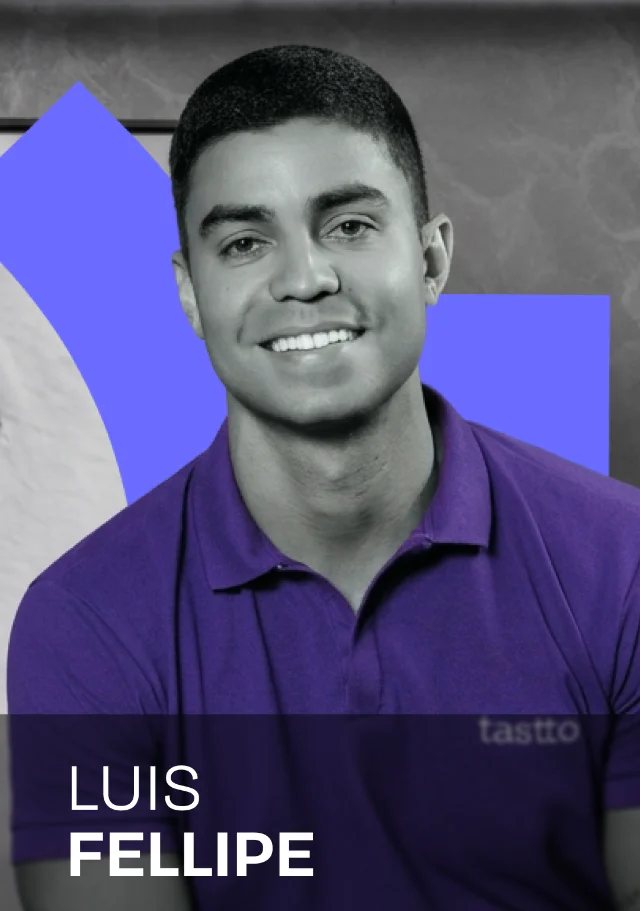
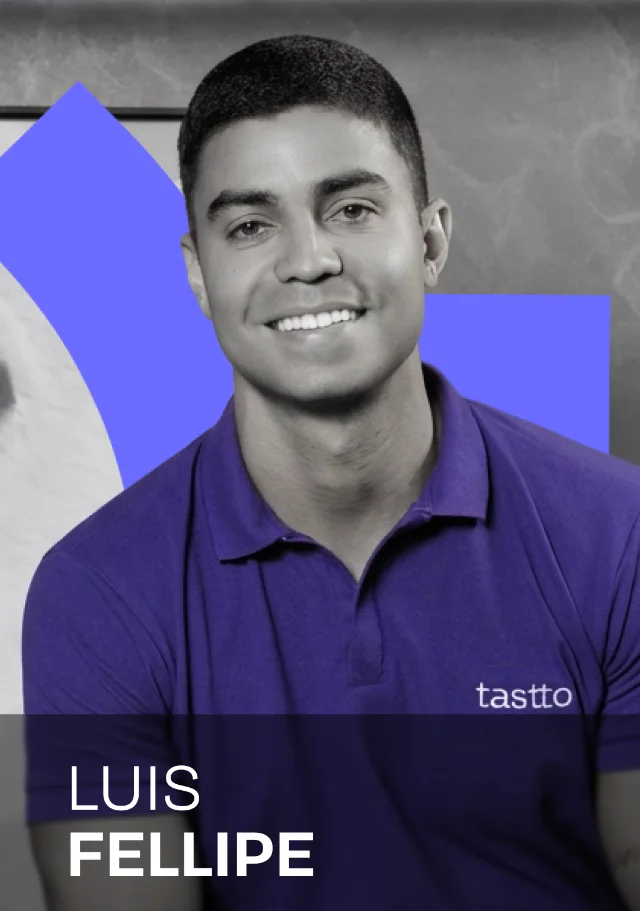
Atualiza site: nova foto do Luis Fellipe na equipe

diff --git a/index.html b/index.html
@@ -10,7 +10,7 @@
 <link rel="preconnect" href="https://fonts.googleapis.com">
 <link rel="preconnect" href="https://fonts.gstatic.com" crossorigin>
 <link href="https://fonts.googleapis.com/css2?family=Bricolage+Grotesque:opsz,wght@12..96,300;12..96,600&family=DM+Sans:wght@400;500&family=Host+Grotesk:wght@400;500&family=Inter:wght@400;500;600&family=Raleway:wght@700&family=Rethink+Sans:wght@500&display=swap" rel="stylesheet">
-<link rel="stylesheet" href="styles.css?v=202610261725">
+<link rel="stylesheet" href="styles.css?v=202610271014">
 </head>
 <body>
 
@@ -281,7 +281,7 @@
     </div>
     <ul class="equipe-trilho">
         <li class="equipe-card"><img src="assets/equipe-thiago-barretto.webp" alt="Thiago Barretto, da equipe Tastto" loading="lazy"><span class="equipe-cargo">Diretor</span></li>
-        <li class="equipe-card"><img src="assets/equipe-luis-fellipe.webp" alt="Luis Fellipe, da equipe Tastto" loading="lazy"><span class="equipe-cargo">Analista</span></li>
+        <li class="equipe-card"><img src="assets/equipe-luis-fellipe.webp?v=2" alt="Luis Fellipe, da equipe Tastto" loading="lazy"><span class="equipe-cargo">Analista</span></li>
         <li class="equipe-card"><img src="assets/equipe-pablo-britto.webp" alt="Pablo Britto, da equipe Tastto" loading="lazy"><span class="equipe-cargo">Analista</span></li>
         <li class="equipe-card"><img src="assets/equipe-pedro-italo.webp" alt="Pedro Ítalo, da equipe Tastto" loading="lazy"><span class="equipe-cargo">Analista</span></li>
         <li class="equipe-card"><img src="assets/equipe-andriele-silva.webp" alt="Andriele Silva, da equipe Tastto" loading="lazy"><span class="equipe-cargo">Analista</span></li>
@@ -459,6 +459,6 @@
   </div>
 </footer>
 
-<script src="script.js?v=202610261725"></script>
+<script src="script.js?v=202610271014"></script>
 </body>
 </html>
